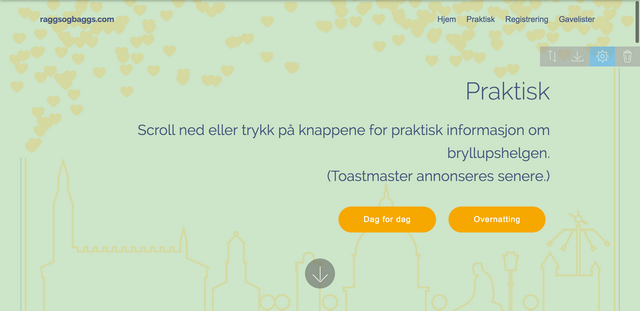
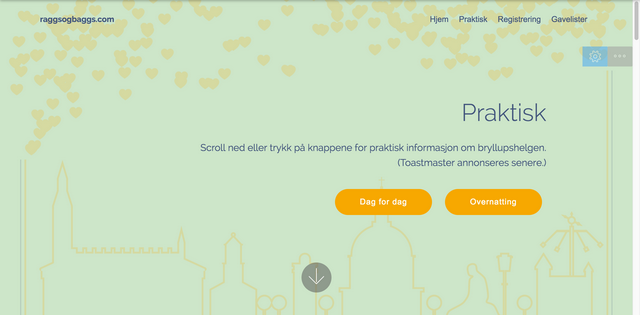
Ooppdater tekst

diff --git a/praktisk.html b/praktisk.html
@@ -57,7 +57,7 @@
     </nav>
 </section>
 
-<section class="engine"><a href="https://mobirise.ws/o">best mobile website builder</a></section><section class="cid-qI3jAtnWEr mbr-fullscreen mbr-parallax-background" id="header2-27">
+<section class="engine"><a href="https://mobirise.ws/d">best free web software</a></section><section class="cid-qI3jAtnWEr mbr-fullscreen mbr-parallax-background" id="header2-27">
 
     
 
@@ -69,7 +69,7 @@
                 
                 <h3 class="mbr-section-subtitle align-center mbr-light pb-3 mbr-fonts-style display-2">
                     Praktisk</h3>
-                <p class="mbr-text pb-3 mbr-fonts-style display-5">Scroll ned eller trykk på knappene for praktisk informasjon om bryllupshelgen.<br>(Toastmaster annonseres senere.)</p>
+                <p class="mbr-text pb-3 mbr-fonts-style display-7">Scroll ned eller trykk på knappene for praktisk informasjon om bryllupshelgen.<br>(Toastmaster annonseres senere.)</p>
                 <div class="mbr-section-btn"><a class="btn btn-md btn-success display-4" href="praktisk.html#timeline1-2m">Dag for dag</a>  <a class="btn btn-md btn-success display-4" href="praktisk.html#info3-34">Overnatting</a></div>
             </div>
         </div>
@@ -180,7 +180,7 @@
                 <h3 class="mbr-section-subtitle align-left mbr-light mbr-white pb-3 mbr-fonts-style display-2">
                     Overnatting
                 </h3>
-                <p class="mbr-text align-left mbr-white mbr-fonts-style display-7">Vi har fått avtale med to hoteller, Hotel Phoenix og Hotel Wakeup Copenhagen Borgergade. Vi har valgt disse to, ettersom de begge ligger i nærheten av Moltkes Palæ. Hotel Phoenix ligger faktisk rett over gaten for Molktes Palæ, så det skal være enkelt å komme seg i seng i de sene nattetimer. Bruden og brudgommen vil bo på hotel Phoenix fra lørdag til søndag. <br><br>Hotel Wakeup Copenhagen Borgergade ligger litt lengre vekk, men stadig i gåavstand. Det er et litt billigere hotell, men fortsatt med veldig god standard – Bjarte har selv overnattet på et hotell i samme kjede i Århus, og var veldig fornøyd. Dere må selvfølgelig velge andre hotell å bo på.</p>
+                <p class="mbr-text align-left mbr-white mbr-fonts-style display-7">Vi har fått avtale med to hoteller, Hotel Phoenix og Hotel Wakeup Copenhagen Borgergade. Vi har valgt disse to, ettersom de begge ligger i nærheten av Moltkes Palæ. Hotel Phoenix ligger faktisk rett over gaten for Molktes Palæ, så det skal være enkelt å komme seg i seng i de sene nattetimer. Bruden og brudgommen vil bo på hotel Phoenix fra lørdag til søndag. <br><br>Hotel Wakeup Copenhagen Borgergade ligger litt lengre vekk, men stadig i gåavstand. Det er et litt billigere hotell, men fortsatt med veldig god standard – Bjarte har selv overnattet på et hotell i samme kjede i Århus, og var veldig fornøyd. Dere må selvfølgelig velge andre hotell å bo på.<br><br>Obs! Det kan være mulig å få rom til lavere pris enn de tilbudene vi har fått, så sjekk gjerne andre bookingsider som feks. <a href="http://hotels.com" target="_blank">hotels.com</a>, <a href="http://booking.com" target="_blank">booking.com</a>, <a href="http://tripadvisor.com" target="_blank">tripadvisor.com</a>, osv.<br></p>
                 <div class="mbr-section-btn align-left py-4"><a class="btn btn-success display-4" href="praktisk.html#form4-2w">Hotel Phoenix</a>
                     <a class="btn btn-success display-4" href="praktisk.html#form4-2x">Hotel Wakeup</a></div>
             </div>
@@ -209,7 +209,7 @@
                     <div class="icon-contacts pb-3">
                         
                         <p class="mbr-text align-left mbr-fonts-style display-7">
-                            På Hotel Phoenix koster overnatting DKK 1585/1785 for henholdsvis enkelt- og dobbeltrom lør-søn og DKK 1685/1985 fre-lør. Alle priser er inkludert frokost.<br><br>NB! Ved bestilling må bookingnr. 1591829 oppgis for å få nevnte tilbud.<br><br><a href="https://www.phoenixcopenhagen.dk" target="_blank">www.phoenixcopenhagen.dk</a><br>Telefon: +45 33 95 95 00 <br>
+                            På Hotel Phoenix koster overnatting DKK 1585/1785 for henholdsvis enkelt- og dobbeltrom lør-søn og DKK 1685/1985 fre-lør. Alle priser er inkludert frokost.<br><br>NB! Ved bestilling må bookingnr. 1591829 oppgis for å få nevnte tilbud.&nbsp;Booking må skje via mail eller tlf. Rommene er tilgjengelig for reservasjon inntil 24. juni. Det vil være mulig å avbestille eller endre sin reservasjon inntil 6 dager før ankomst.<br><br><a href="https://www.phoenixcopenhagen.dk" target="_blank">www.phoenixcopenhagen.dk</a><br>Telefon: +45 33 95 95 00 <br>
                             E-post: <a href="mailto:phoenixcopenhagen@arp-hansen.dk">phoenixcopenhagen@arp-hansen.dk</a><br></p>
                     </div>
                 </div>
@@ -227,7 +227,7 @@
     <div class="container">
         <div class="row">
             <div class="col-md-6">
-                <div class="google-map"><iframe frameborder="0" style="border:0" src="https://www.google.com/maps/embed/v1/place?key=AIzaSyA0Dx_boXQiwvdz8sJHoYeZNVTdoWONYkU&amp;q=place_id:ChIJn6wOs6lZwokRLKy1iqRcoKw" allowfullscreen=""></iframe></div>
+                <div class="google-map"><iframe frameborder="0" style="border:0" src="https://www.google.com/maps/embed/v1/place?key=AIzaSyA0Dx_boXQiwvdz8sJHoYeZNVTdoWONYkU&amp;q=place_id:ChIJr_KwsRlTUkYRpwICrxK133A" allowfullscreen=""></iframe></div>
             </div>
             <div class="col-md-6">
                 <h2 class="pb-3 align-left mbr-fonts-style display-2">
@@ -239,7 +239,7 @@
                     </div>
                     <div class="icon-contacts pb-3">
                         
-                        <p class="mbr-text align-left mbr-fonts-style display-7">På Hotel Wakeup Copenhagen Borgergade koster overnatting DKK 1100/1290 for henholdsvis enkelt- og dobbeltrom per natt, inkludert frokost.<br><br>(reservasjonslink kommer)<br><br><a href="https://www.hotelwakeupcopenhagen.com/" target="_blank">www.hotelwakeupcopenhagen.com</a><br>Telefon: +45 44 80 00 90<br>E-post: <a href="mailto:borgergade@wakeupcopenhagen.dk">borgergade@wakeupcopenhagen.dk</a></p>
+                        <p class="mbr-text align-left mbr-fonts-style display-7">På Hotel Wakeup Copenhagen Borgergade koster overnatting DKK 1100/1290 for henholdsvis enkelt- og dobbeltrom per natt, inkludert frokost. Bruk følgende link for å reservere rom med den avtalte prisen vi har fått:<br><br><a href="https://www.wakeupcopenhagen.com/arpbe/web/en/login/67307649" target="_blank">https://www.wakeupcopenhagen.com/arpbe/web/en/login/67307649</a><a href="https://www.wakeupcopenhagen.com/arpbe/web/en/login/67307649" target="_blank"><br></a><br>Rommene er tilgjengelig for reservasjon inntil 24. juni. Betaling skjer ved ankomst og kan kanselleres inntil 3 dager før ankomst.&nbsp;<br><br><a href="https://www.hotelwakeupcopenhagen.com/" target="_blank">www.hotelwakeupcopenhagen.com</a><br>Telefon: +45 44 80 00 90<br>E-post: <a href="mailto:borgergade@wakeupcopenhagen.dk">borgergade@wakeupcopenhagen.dk</a></p>
                     </div>
                 </div>
                 

diff --git a/gavelister.html b/gavelister.html
@@ -57,7 +57,7 @@
     </nav>
 </section>
 
-<section class="engine"><a href="https://mobirise.ws">Mobirise</a></section><section class="cid-qHmYfTIdK6 mbr-fullscreen mbr-parallax-background" id="header2-q">
+<section class="engine"><a href="https://mobirise.ws/f">simple web builder</a></section><section class="cid-qITOKpkzPW mbr-fullscreen mbr-parallax-background" id="header2-3g">
 
     
 
@@ -69,7 +69,7 @@
                 
                 <h3 class="mbr-section-subtitle align-center mbr-light pb-3 mbr-fonts-style display-2">
                     Gavelister</h3>
-                <p class="mbr-text pb-3 mbr-fonts-style display-5">Gavelister kommer senere...</p>
+                <p class="mbr-text pb-3 mbr-fonts-style display-7">Gavelister kommer senere<br><br><br><br></p>
                 
             </div>
         </div>
@@ -122,10 +122,10 @@
   <script src="assets/tether/tether.min.js"></script>
   <script src="assets/bootstrap/js/bootstrap.min.js"></script>
   <script src="assets/smoothscroll/smooth-scroll.js"></script>
-  <script src="assets/touchswipe/jquery.touch-swipe.min.js"></script>
   <script src="assets/viewportchecker/jquery.viewportchecker.js"></script>
-  <script src="assets/parallax/jarallax.min.js"></script>
   <script src="assets/dropdown/js/script.min.js"></script>
+  <script src="assets/touchswipe/jquery.touch-swipe.min.js"></script>
+  <script src="assets/parallax/jarallax.min.js"></script>
   <script src="assets/theme/js/script.js"></script>
   
   

diff --git a/assets/mobirise/css/mbr-additional.css b/assets/mobirise/css/mbr-additional.css
@@ -1855,6 +1855,21 @@ body {
     -webkit-justify-content: center;
   }
 }
+.cid-qITOKpkzPW {
+  background-image: url("../../../assets/images/hearts-skyline-compact-2000x1232.png");
+}
+.cid-qITOKpkzPW H1 {
+  color: #43567d;
+}
+.cid-qITOKpkzPW .mbr-text,
+.cid-qITOKpkzPW .mbr-section-btn {
+  color: #43567d;
+  text-align: right;
+}
+.cid-qITOKpkzPW H3 {
+  text-align: right;
+  color: #43567d;
+}
 .cid-qHmYfSV3Pu .navbar {
   padding: .5rem 0;
   background: #cde6c9;
@@ -2243,21 +2258,6 @@ body {
 .cid-qHmYfSV3Pu .nav-link:hover,
 .cid-qHmYfSV3Pu .dropdown-item:hover {
   color: #149dcc !important;
-}
-.cid-qHmYfTIdK6 {
-  background-image: url("../../../assets/images/hearts-skyline-compact-2000x1232.png");
-}
-.cid-qHmYfTIdK6 H1 {
-  color: #43567d;
-}
-.cid-qHmYfTIdK6 .mbr-text,
-.cid-qHmYfTIdK6 .mbr-section-btn {
-  color: #43567d;
-  text-align: right;
-}
-.cid-qHmYfTIdK6 H3 {
-  text-align: right;
-  color: #43567d;
 }
 .cid-qIJ6znyvGl {
   padding-top: 60px;

diff --git a/index.html b/index.html
@@ -57,7 +57,7 @@
     </nav>
 </section>
 
-<section class="engine"><a href="https://mobirise.ws/f">simple site maker</a></section><section class="header4 cid-qI3m2hzNyn mbr-fullscreen mbr-parallax-background" id="header4-2e">
+<section class="engine"><a href="https://mobirise.ws/k">develop own website</a></section><section class="header4 cid-qI3m2hzNyn mbr-fullscreen mbr-parallax-background" id="header4-2e">
 
     
 

diff --git a/registrering_mobirise.html b/registrering_mobirise.html
@@ -57,7 +57,7 @@
     </nav>
 </section>
 
-<section class="engine"><a href="https://mobirise.ws/l">html website creator</a></section><section class="cid-qHSVdeMPx7 mbr-fullscreen mbr-parallax-background" id="header2-20">
+<section class="engine"><a href="https://mobirise.ws/b">best free website creator</a></section><section class="cid-qHSVdeMPx7 mbr-fullscreen mbr-parallax-background" id="header2-20">
 
     
 
